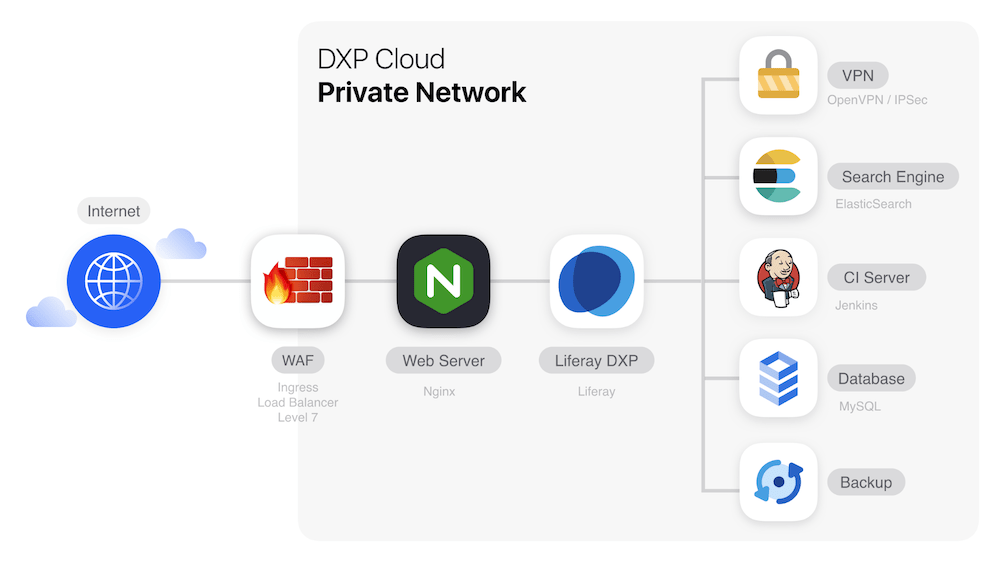
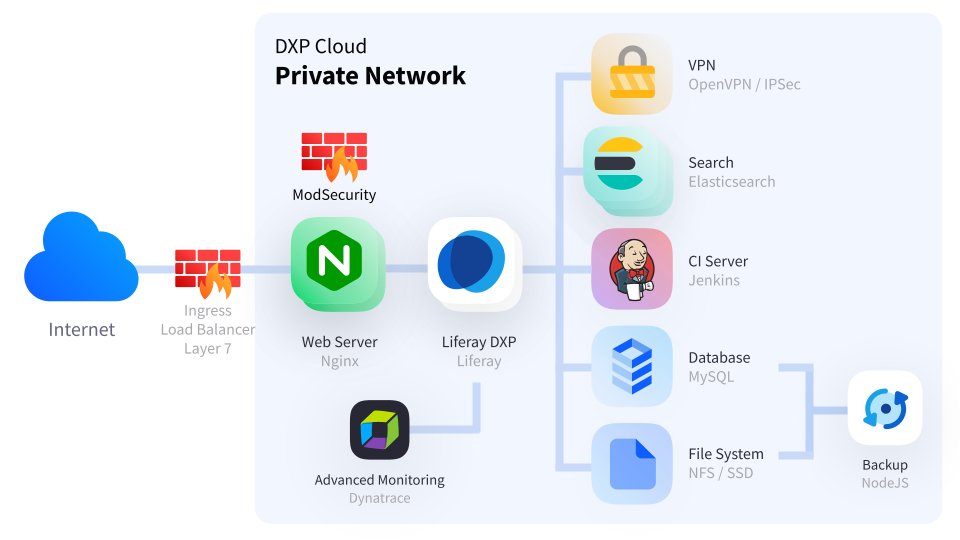
LRDOCS-11335 Document ModSecurity along with the other changes (originally done with LRDOCS-10585)

diff --git a/docs/liferay-cloud/latest/en/infrastructure-and-operations/security/web-application-firewall.md b/docs/liferay-cloud/latest/en/infrastructure-and-operations/security/web-application-firewall.md
@@ -1,8 +1,10 @@
 # Web Application Firewall
 
-Liferay Cloud provides built-in Web Application Firewall (WAF) capabilities, protecting applications against sophisticated Layer 7 attacks that might otherwise lead to loss of sensitive data, systems being hijacked by attackers, and downtime.
+{bdg-secondary}`Available in DXP Cloud 5.x.x`
 
-Here, you'll learn how Liferay Cloud's features form the WAF that protects against common attacks.
+ModSecurity is a Web Application Firewall available in DXP Cloud that inspects requests sent to the web server in real time, against a predefined set of custom rules. This step prevents typical web application L7 attacks, like XSS, SQL Injection, and other forms of hijacking attempts that might lead to loss of sensitive information.
+
+DXP Cloud also includes a number of other network security features, including a [private network](../networking/private-network.md), Public [Load Balancer](../networking/load-balancer.md) ([Layer 7](https://www.nginx.com/resources/glossary/layer-7-load-balancing/)), and [CDN](../networking/load-balancer.md#cdn).
 
 ![Figure 1: The Web Application Firewall protects against common attacks.](./web-application-firewall/images/01.png)
 
@@ -10,36 +12,82 @@ Here, you'll learn how Liferay Cloud's features form the WAF that protects again
 Custom firewall rules are not available with [shared cluster subscriptions](../../reference/platform-limitations.md#security).
 ```
 
-## Private Network
+## Enabling ModSecurity
 
-Liferay Cloud's services are not exposed publicly to the internet. Every environment in Liferay Cloud has its own private network, which allows services from the same environment to communicate through a secure communication protocol without interacting with the public internet. For information on configuring this private network, see [Private Network](../networking/private-network.md).
+ModSecurity is disabled by default. To enable it, add the `LCP_WEBSERVER_MODSECURITY` [environment variable](../../platform-services/web-server-service.md#environment-variables) to your project repository's `webserver/LCP.json` file. Any attack detection rules are only processed if ModSecurity is enabled. *You must [add your own rules](#adding-attack-detection-rules).*
 
-## Public Load Balancer
+These values are allowed for `LCP_WEBSERVER_MODSECURITY`:
 
-The Liferay Cloud Public Load Balancer ([Layer 7](https://www.nginx.com/resources/glossary/layer-7-load-balancing/)) gives internet access to the environment's services via proxied HTTP(S)
-connections using TLS (1.0 to 1.2) protocol. Each load balancer has a static IP that can be used to set up custom domains. HTTP(S) load balancing can absorb and protect from IP spoofing and large SYN flood attacks. This functionality is built-in to Liferay Cloud and does not require user configuration.
+* **On**: enables ModSecurity. Rules are processed.
 
-## CDN Offload
+* **Off**: disables ModSecurity. Rules are not processed.
 
-Liferay Cloud's [CDN](../networking/load-balancer.md#cdn) acts as a proxy between the clients and origin servers. The CDN caches and serves cacheable content from points-of-presence (POPs) closer to users, instead of sending them to backend servers (instances).
+* **DetectionOnly**: enables ModSecurity. Rules are processed, but they do not execute any disruptive actions (block, deny, drop, allow, proxy, or redirect).
 
-In the event of a DDoS attack for cacheable content, the requests are sent to POPs all over the globe instead of the origin servers, thereby providing a larger set of locations to absorb the attack.
+```{tip}
+The `LCP_WEBSERVER_MODSECURITY` environment variable is equivalent to ModSecurity's own [`SecRuleEngine` directive](https://github.com/SpiderLabs/ModSecurity/wiki/Reference-Manual-%28v3.x%29#SecRuleEngine).
+```
 
-## IP Allow and Deny Lists
+If you set the value of `LCP_WEBSERVER_MODSECURITY` to **On** or **DetectionOnly**, ModSecurity is automatically enabled when you [deploy the change](../../build-and-deploy/deploying-changes-via-the-cli-tool.md).
 
-The ability to permit or block incoming traffic based on IP addresses or ranges using allow lists and deny lists is available through the [Webserver (Nginx) service](../../platform-services/web-server-service.md) that Liferay Cloud provides.
+## Changing ModSecurity's Configuration
 
-Users can leverage the `allow` and `deny` directives inside the `stream` context or `server` block in the `nginx.conf` file:
+By default, ModSecurity uses recommended settings when it is [enabled](#enabling-modsecurity). However, if you want to override the default configuration, then you must create a `modsecurity.conf` file in your project repository's `webserver/configs/{ENV}/modsec/` directory. You must provide all of the necessary configurations in this file, because it completely overrides Liferay Cloud's default `modsecurity.conf`.
+
+You can copy [this example of recommended settings](https://github.com/SpiderLabs/ModSecurity/blob/v3/master/modsecurity.conf-recommended) as a starting point for your own `modsecurity.conf` file. However, if you use this file then you must replace the line `SecRuleEngine DetectionOnly` with this line:
 
 ```
-stream {
-    ...
-    server {
-        listen 12345;
-        deny   192.168.1.2;
-        allow  192.168.1.1/24;
-        allow  2001:0db8::/32;
-        deny   all;
-    }
-}
+SecRuleEngine ${LCP_WEBSERVER_MODSECURITY}
 ```
+
+See the [ModSecurity Reference Manual](https://github.com/SpiderLabs/ModSecurity/wiki/Reference-Manual-%28v3.x%29) for more information on the allowed settings.
+
+## Adding Attack Detection Rules
+
+Attack detection rules are not provided by default. In using ModSecurity, you are responsible for providing your own rules according to your specific needs.
+
+### OWASP ModSecurity Core Rule Set
+
+The OWASP Foundation's ModSecurity Core Rule Set (CRS) is the recommended rule set for use with Liferay Cloud. You can download the OWASP CRS [here](https://coreruleset.org/installation/).
+
+Follow these steps to add the OWASP CRS to ModSecurity:
+
+1. Unzip the files and place them in this folder in your project repository: `webserver/configs/{ENV}/modsec/rules/`
+
+1. Move the `crs-setup.conf.example` file to the `webserver/configs/{ENV}/modsec/` folder.
+
+1. Rename `crs-setup.conf.example` to `crs-setup.conf`.
+
+1. Open the `crs-setup.conf` file and add this to the last line of the file:
+
+```
+/etc/nginx/modsec/rules/*.conf
+```
+
+1. Commit the files to your repository and [deploy the changes](../../build-and-deploy/deploying-changes-via-the-cli-tool.md).
+
+This adds the rule set to be interpreted when you [enable ModSecurity](#enabling-modsecurity).
+
+## Using ModSecurity Audit Logs
+
+When [ModSecurity is enabled](#enabling-modsecurity), it automatically generates audit logs that record detailed information for all transactions. This information is saved in the `modsec_audit.log` file in your web server's `/var/log` directory.
+
+If you have [configured ModSecurity by providing your own `modsecurity.conf` file](#changing-modsecurity-s-configuration), you can make this information display in the web server's console (where you can download it) instead of `modsec_audit.log`. To do this, change this line in your `modsecurity.conf` file:
+
+```
+SecAuditLog /var/log/modsec_audit.log
+```
+
+Replace `/var/log/modsec_audit.log` with `/dev/stdout` to have audit logs display in the console. The audit logs appear in the console with each transaction once you deploy the change.
+
+You can also change the audit log format to JSON by adding this line to the `modsecurity.conf` file:
+
+```
+SecAuditLogFormat JSON
+```
+
+## Additional Information
+
+* [Private Network](../networking/private-network.md)
+* [Load Balancer](../networking/load-balancer.md)
+* [CDN](../networking/load-balancer.md#cdn)

diff --git a/docs/liferay-cloud/latest/en/platform-services/web-server-service.md b/docs/liferay-cloud/latest/en/platform-services/web-server-service.md
@@ -35,6 +35,7 @@ These environment variables are available for the web server service:
 | `LCP_HAPROXY_RESOLVER_TIMEOUT_RETRY` | `1` | Configures the [`timeout` configuration](https://cbonte.github.io/haproxy-dconv/2.0/configuration.html#5.3.2-timeout) for the HAProxy load balancer (the number of seconds for an event timeout). This configuration is for the `retry` event.|
 | `LCP_HAPROXY_SERVER_TEMPLATE_BACKEND_NUM` | `10` | Overrides the maximum number of instances for any service. If you plan to use [auto-scaling](../manage-and-optimize/auto-scaling.md), then set this to the highest value needed. |
 | `LCP_WEBSERVER_LOG_FORMAT` |   | Customizes the format for Nginx logging. See the [official Nginx documentation](https://docs.nginx.com/nginx/admin-guide/monitoring/logging/#setting-up-the-access-log). |
+| `LCP_WEBSERVER_MOD_SECURITY` | `Off` | Determines whether ModSecurity is enabled. Set this value to `On` to enable and process rules, or to `DetectionOnly` to process rules without executing any disruptive actions. See [Web Application Firewall](../infrastructure-and-operations/security/web-application-firewall.md). |
 
 The [Ingress Load Balancer](../infrastructure-and-operations/networking/load-balancer.md) is also configured via the web server service. Environment variables can be added to this service to configure the load balancer and custom domains. See [the Load Balancer environment variables reference](../infrastructure-and-operations/networking/load-balancer.md#environment-variables-reference) for more information.
 

diff --git a/docs/liferay-cloud/latest/en/infrastructure-and-operations/networking/load-balancer.md b/docs/liferay-cloud/latest/en/infrastructure-and-operations/networking/load-balancer.md
@@ -23,7 +23,11 @@ Having a dedicated load balancer provides a myriad of enhanced features, such as
 
 ## CDN
 
-Liferay's Content Delivery Network (CDN) is a built-in feature provided with Liferay Cloud. This CDN caches your static content globally, greatly enhancing your delivery speed. By default, it's enabled in all environments except `dev` environments. You can enable or disable the CDN for a service (in its `LCP.json` file) by setting the value of `cdn` within the `loadbalancer` object:
+Liferay's Content Delivery Network (CDN) is a built-in feature provided with Liferay Cloud that acts as a proxy between the client and origin servers. The CDN caches and serves cacheable content from points-of-presence (POPs) closer to users, instead of sending them to backend servers (instances).
+
+In the event of a DDoS attack for cacheable content, the requests are sent to POPs all over the globe instead of the origin servers, thereby providing a larger set of locations to absorb the attack. This caching of your global, static content also greatly enhances your delivery speed.
+
+By default, the CDN is enabled in all environments except `dev` environments. You can enable or disable the CDN for a service (in its `LCP.json` file) by setting the value of `cdn` within the `loadbalancer` object:
 
 ```json
 {
